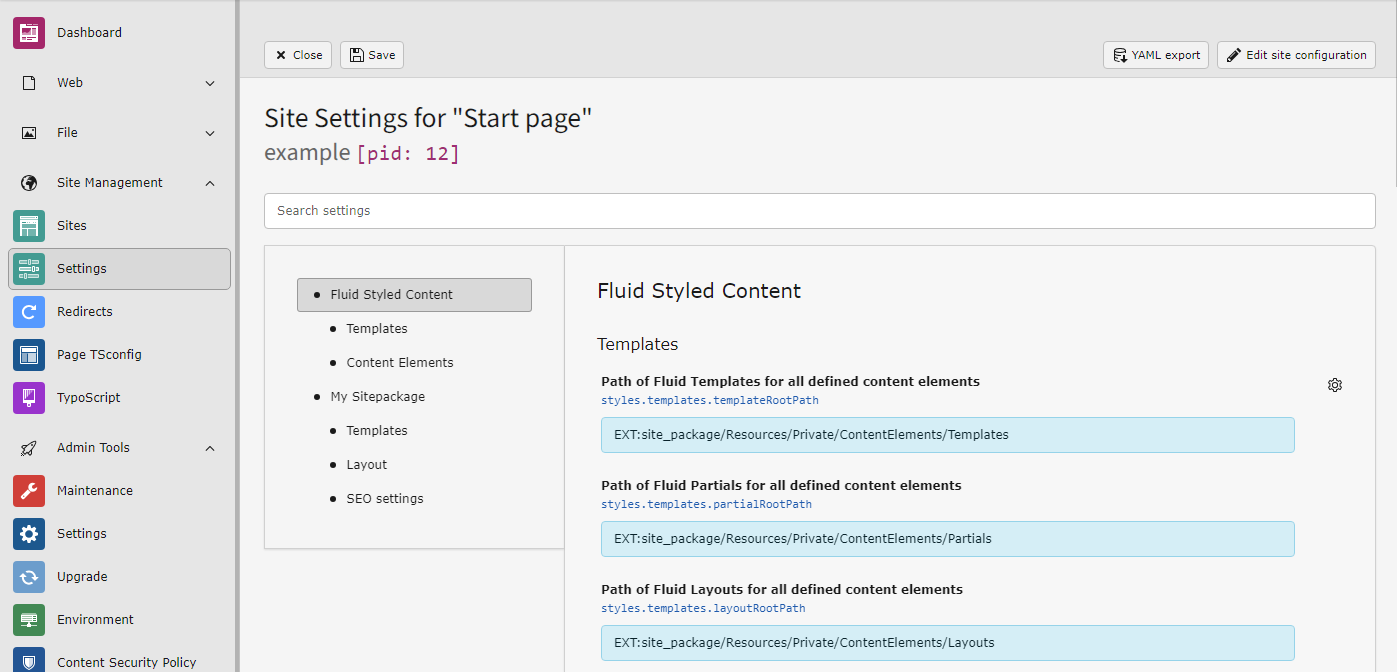
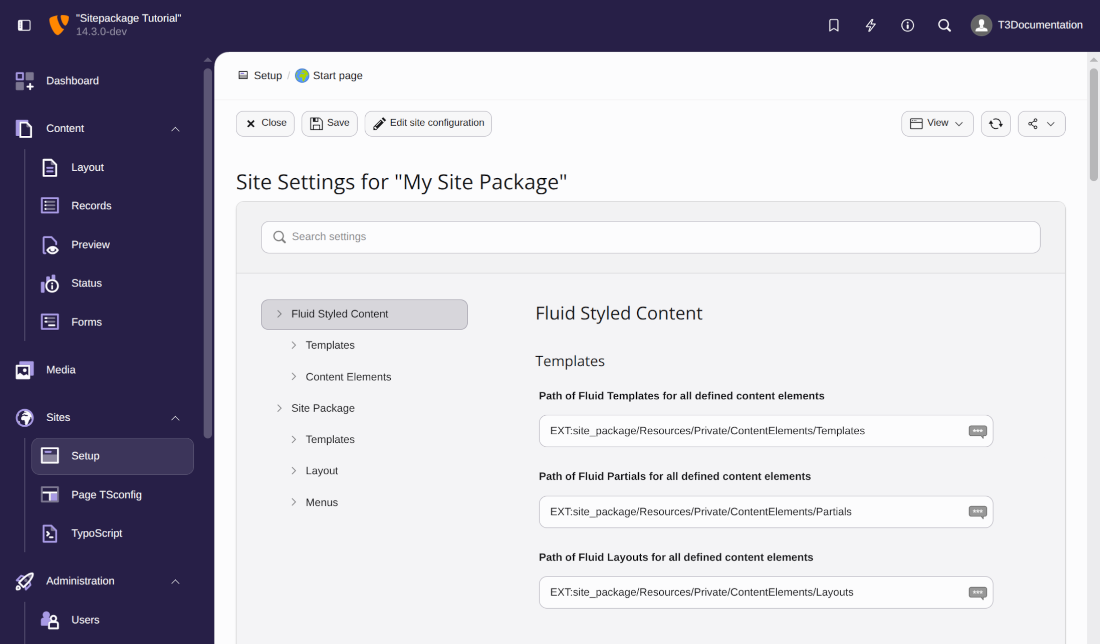
[DOCS] Update section "content element rendering", add new screenshots (#405)

diff --git a/Documentation/ContentElementRendering/Index.rst b/Documentation/ContentElementRendering/Index.rst
@@ -69,6 +69,18 @@ Clipboard instead, then save it to the following file:
         partialRootPath: 'EXT:my_site_package/Resources/Private/ContentElements/Partials'
         layoutRootPath: 'EXT:my_site_package/Resources/Private/ContentElements/Layouts'
 
+.. tip::
+    If you don't see the :guilabel:`YAML export` button, click the :guilabel:`View`
+    button to switch to the "Advanced" mode.
+
+..  figure:: /Images/SiteSettingsButtonAdvanced.png
+    :alt: Screenshot to show the buttons to switch between "Basic" and "Advanced" mode
+    :zoom: lightbox
+
+    Use :guilabel:`View` button to get the "Advanced" mode in the site settings
+    module
+
+
 ..  _content-element-rendering-menu-subpages:
 
 Override the "Menu of Subpages" template
